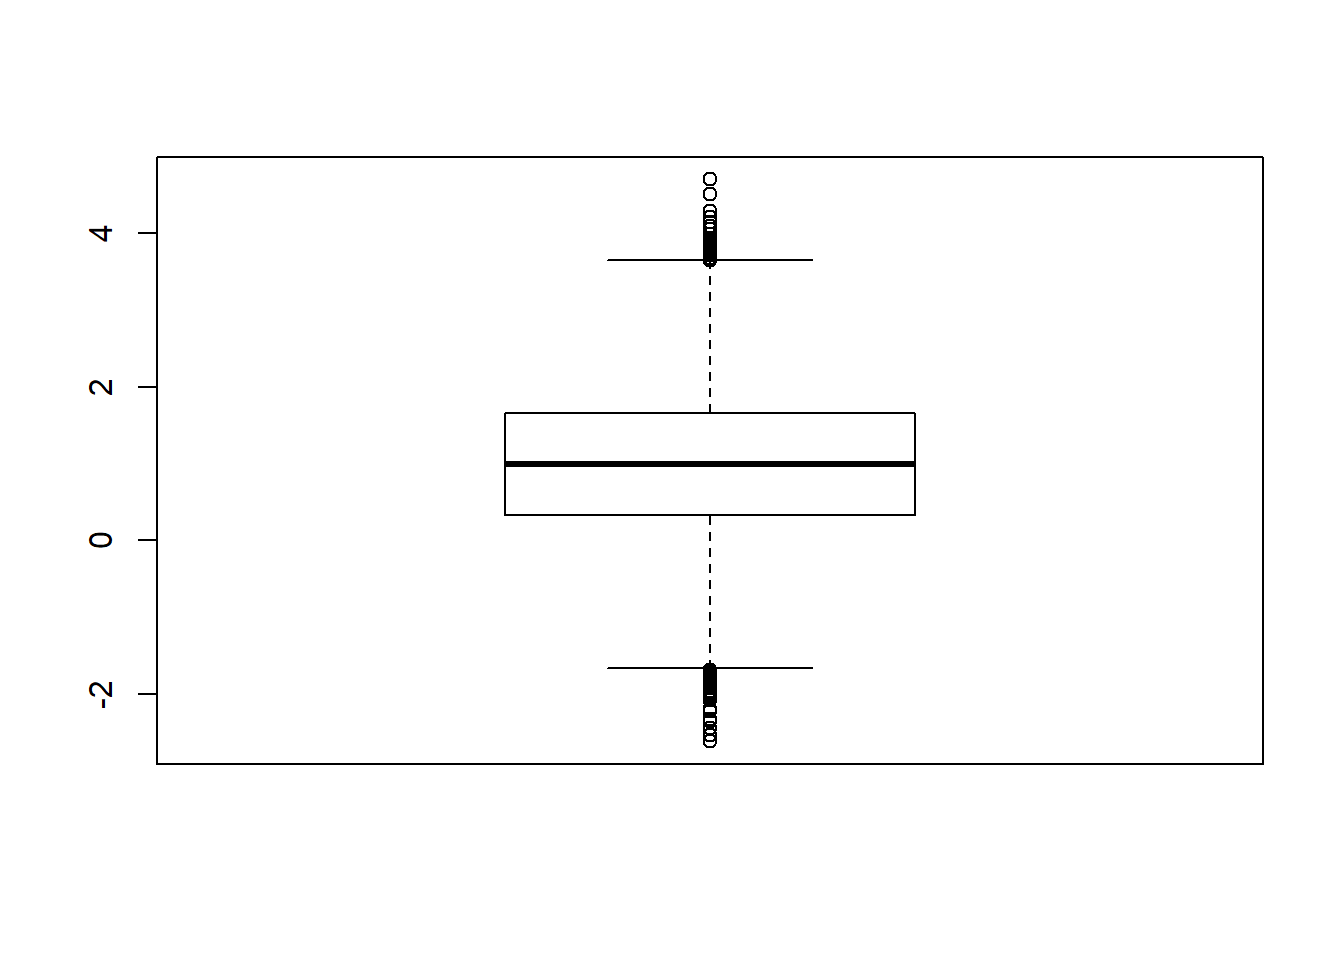
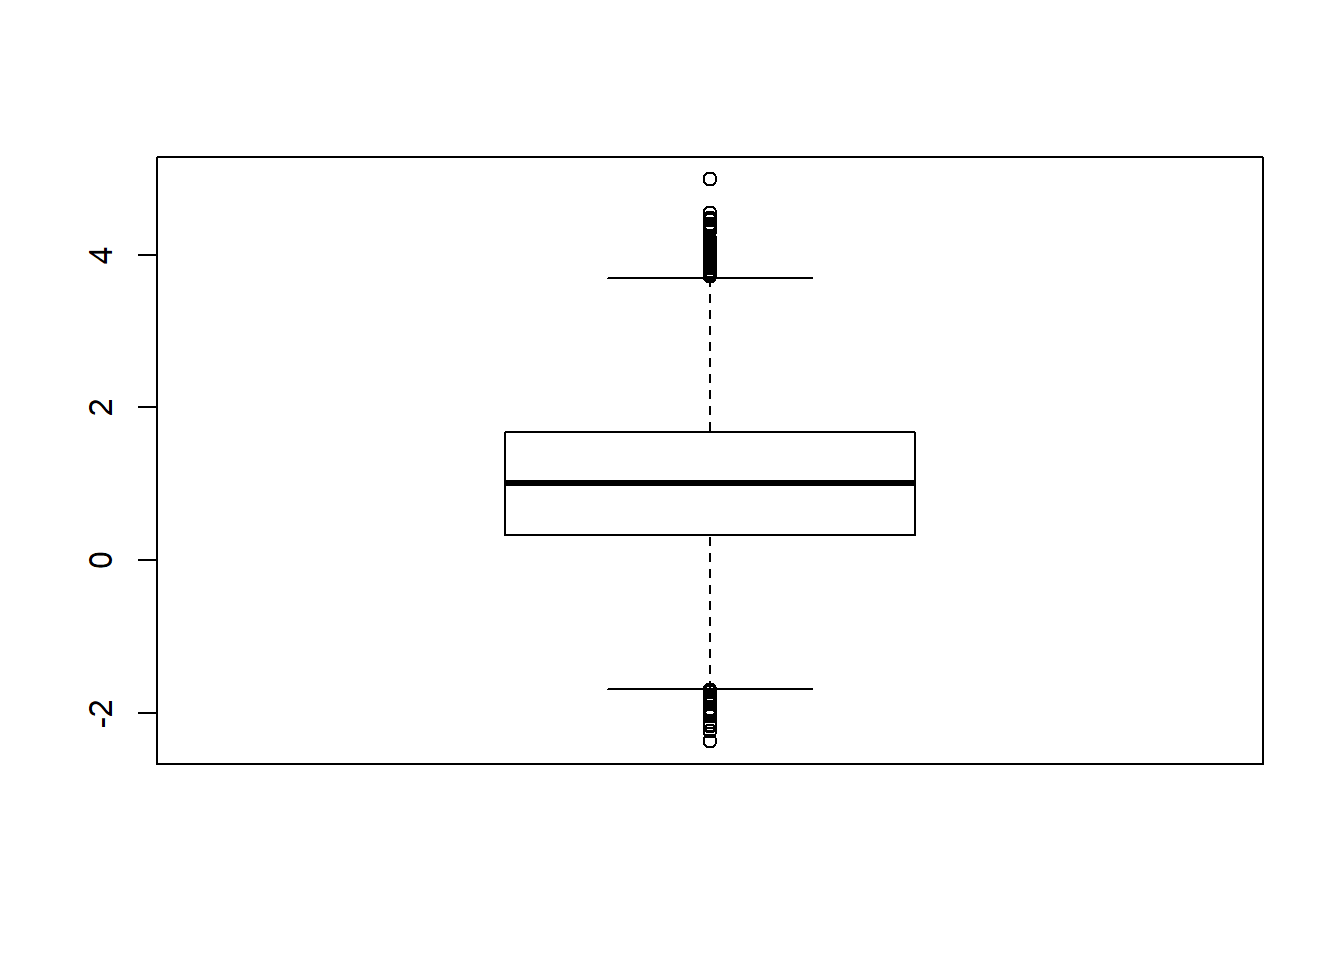
vsdv

diff --git a/content/post/2019-05-10-comando-basicos-r.html b/content/post/2019-05-10-comando-basicos-r.html
@@ -27,7 +27,7 @@ image:
 </ul></li>
 <li><a href="#tudo-no-r-e-objeto">Tudo no R é objeto</a><ul>
 <li><a href="#armazenando-dados-em-objetos">Armazenando dados em objetos</a></li>
-<li><a href="#concatenando-diversos-valores-e-armazenando-os-a-um-objeto">Concatenando diversos valores e armazenando-os a um objeto</a></li>
+<li><a href="#concatenando-diversos-valores-e-armazenando-os-em-um-objeto">Concatenando diversos valores e armazenando-os em um objeto</a></li>
 <li><a href="#extraindo-um-ou-mais-valores-de-um-objeto-a-partir-da-indexacao">Extraindo um ou mais valores de um objeto a partir da indexação</a></li>
 <li><a href="#principais-tipos-de-objetos">PRINCIPAIS <strong>TIPOS</strong> DE OBJETOS</a><ul>
 <li><a href="#funcoes">funções</a></li>
@@ -244,7 +244,7 @@ Auckland, ajudaram Ross Ihaka a desenvolver a versão para Macintosh.</p>
 ## cite it when using it for data analysis. See also
 ## &#39;citation(&quot;pkgname&quot;)&#39; for citing R packages.</code></pre>
 <pre class="r"><code>Sys.time()                  # obtém data e hora exata do sistema</code></pre>
-<pre><code>## [1] &quot;2019-05-16 12:05:01 -03&quot;</code></pre>
+<pre><code>## [1] &quot;2019-05-16 12:16:46 -03&quot;</code></pre>
 </div>
 <div id="operadores-simples-e-funcoes-matematicas" class="section level2">
 <h2>Operadores simples e funções matemáticas</h2>
@@ -380,8 +380,8 @@ y</code></pre>
 z</code></pre>
 <pre><code>## [1] 11 12 13 14 15</code></pre>
 </div>
-<div id="concatenando-diversos-valores-e-armazenando-os-a-um-objeto" class="section level2">
-<h2>Concatenando diversos valores e armazenando-os a um objeto</h2>
+<div id="concatenando-diversos-valores-e-armazenando-os-em-um-objeto" class="section level2">
+<h2>Concatenando diversos valores e armazenando-os em um objeto</h2>
 <pre class="r"><code>w &lt;- c(4,5,6,7,8)
 w</code></pre>
 <pre><code>## [1] 4 5 6 7 8</code></pre>
@@ -595,7 +595,7 @@ x &lt;- 1
 if(x == 1) {
   Sys.time()
 }</code></pre>
-<pre><code>## [1] &quot;2019-05-16 12:05:03 -03&quot;</code></pre>
+<pre><code>## [1] &quot;2019-05-16 12:16:47 -03&quot;</code></pre>
 <pre class="r"><code>if(x &lt; 0) {
   sinal &lt;- &quot;negativo&quot;
 } else if(x == 0) {
@@ -626,46 +626,49 @@ soma</code></pre>
 <div id="gerando-numeros-aleatorios-e-amostragem" class="section level1">
 <h1>Gerando números aleatórios e amostragem</h1>
 <pre class="r"><code>runif(100)        # Gera números aleatórios entre 0 e 1 com distribuição uniforme</code></pre>
-<pre><code>##   [1] 0.74868471 0.65302577 0.59695364 0.55191148 0.32367409 0.50151795
-##   [7] 0.73200879 0.32027399 0.74268824 0.22065408 0.94536031 0.35376165
-##  [13] 0.92954102 0.33572480 0.80530736 0.41712829 0.68905828 0.70772629
-##  [19] 0.27111391 0.10935925 0.90254411 0.68728077 0.37850139 0.61874865
-##  [25] 0.10500243 0.75810282 0.67866942 0.13475690 0.10595073 0.80810289
-##  [31] 0.93698392 0.97372232 0.62906478 0.62958915 0.31291607 0.72384826
-##  [37] 0.94849183 0.44476111 0.24896516 0.13864263 0.68392851 0.11074143
-##  [43] 0.83151530 0.97213242 0.25686078 0.59969925 0.71328982 0.38620925
-##  [49] 0.75160951 0.48872754 0.28012227 0.55768422 0.98274667 0.63228730
-##  [55] 0.71839802 0.90468774 0.56187824 0.22425593 0.08417468 0.88762021
-##  [61] 0.71924922 0.05556459 0.39070650 0.14712495 0.57410049 0.45704987
-##  [67] 0.10567661 0.44479792 0.97438534 0.63878716 0.47128369 0.75063800
-##  [73] 0.23242981 0.04554077 0.48599683 0.07947313 0.41405370 0.65925056
-##  [79] 0.83474741 0.86518329 0.96686736 0.59652100 0.81870572 0.36835734
-##  [85] 0.39691555 0.94663948 0.24698887 0.07792741 0.64322108 0.30372731
-##  [91] 0.64177957 0.55584117 0.31437438 0.09927427 0.78746569 0.66986416
-##  [97] 0.32156624 0.38379057 0.60148639 0.72402225</code></pre>
+<pre><code>##   [1] 0.209823232 0.913387632 0.838047920 0.267173367 0.926002862
+##   [6] 0.758717400 0.355714137 0.751435379 0.684433778 0.674740590
+##  [11] 0.447883053 0.806096646 0.335682978 0.111756914 0.260077349
+##  [16] 0.111357337 0.756841775 0.098608841 0.576660814 0.745511504
+##  [21] 0.213155692 0.425513220 0.749937291 0.707199972 0.530089243
+##  [26] 0.920608765 0.337578741 0.609083272 0.872845898 0.594186513
+##  [31] 0.842322083 0.522020489 0.766283021 0.170482108 0.839184343
+##  [36] 0.730849650 0.361356130 0.534933510 0.404799563 0.276897814
+##  [41] 0.176707928 0.161623048 0.490243529 0.488923044 0.810751066
+##  [46] 0.516043932 0.023963869 0.569580538 0.722792594 0.593552517
+##  [51] 0.601458229 0.940643530 0.115236259 0.913203222 0.508126465
+##  [56] 0.083131516 0.027733498 0.264641497 0.635617052 0.139792720
+##  [61] 0.160472095 0.787657109 0.341455592 0.129159517 0.851357839
+##  [66] 0.243687946 0.936642307 0.555485670 0.605445859 0.294704556
+##  [71] 0.791647125 0.848581375 0.392131438 0.428807313 0.191142373
+##  [76] 0.174952548 0.292697912 0.381933304 0.999066731 0.173849567
+##  [81] 0.299229844 0.398011421 0.774288802 0.805797381 0.955701694
+##  [86] 0.761608816 0.670610740 0.897576554 0.428256088 0.699441539
+##  [91] 0.579149852 0.946879330 0.583640296 0.671613622 0.831750749
+##  [96] 0.858104990 0.141632364 0.073893559 0.741623607 0.007145412</code></pre>
 <pre class="r"><code>rnorm(100)        # Gera números aleatórios com distribuição normal</code></pre>
-<pre><code>##   [1]  0.431780006  0.551085206  1.018301452 -0.574007364 -0.454427141
-##   [6] -0.005939572  1.725295736  0.656484200 -0.117976666  0.749237744
-##  [11]  0.848984682 -1.203014499  1.939838703 -0.717859808  0.158722889
-##  [16]  0.814551785  0.281165896 -1.438669475 -0.798366331 -0.602131220
-##  [21]  0.458247909  0.379899883  0.596349359 -0.434007042 -0.066142898
-##  [26] -0.552351753 -1.454676105 -0.060509268 -0.535588303  0.269917268
-##  [31] -1.374923291 -0.149262517 -0.636440901 -0.152797825  0.699620539
-##  [36] -1.193991366  0.134376641 -0.433574769  0.087213664 -0.588150113
-##  [41] -0.524037840  0.513239710  2.477652029 -0.394012891 -0.843399586
-##  [46] -0.600943333 -1.306353116  0.747255150  1.136412689  0.649126434
-##  [51]  0.081331098 -0.113042455  1.083298802 -0.623290019  0.771415156
-##  [56] -0.475418404  0.126608504 -2.094576179 -2.054114998  1.339317108
-##  [61]  0.771909817  0.587450000  2.114556506  1.332068760 -0.162421013
-##  [66] -0.071938850 -0.310777538  0.664508468  0.568069227  0.404157788
-##  [71] -1.421518540  0.002099416  1.365489933  0.908208795 -0.804269497
-##  [76]  0.787693234 -0.949336859 -0.914661942 -0.317537566  1.818867602
-##  [81] -1.176210724  1.284287023  0.325723182  1.534362965 -0.621786396
-##  [86] -1.427521611 -0.272563680 -0.176397294  0.038684393 -2.172352371
-##  [91]  0.128287127 -1.529630299 -0.709852335 -0.014338814 -0.588561083
-##  [96] -0.542564377  0.191409736 -0.969097636  0.317898411 -0.078986738</code></pre>
+<pre><code>##   [1]  1.06941494 -0.55678195  0.25721500  0.98922603 -0.92693407
+##   [6] -0.62521428  0.51621351 -1.15662400  1.11919899  0.52688525
+##  [11] -0.01812531 -1.08329228  1.28399161  0.44516166  0.50083969
+##  [16]  1.88129302  0.19413067  0.23130509  1.49150270  0.56195104
+##  [21]  1.54736187 -0.84521082  0.37661862 -0.60102477  0.15008819
+##  [26]  0.34539146  0.76002199 -0.72465033 -0.81959902  1.14564925
+##  [31]  2.71636709  0.79109217  0.82965471 -0.83554443  0.89425456
+##  [36] -1.00096430  0.19409365 -0.27159839 -0.99209372 -0.36884745
+##  [41]  0.20979445  0.51436916 -1.08021287 -2.45608110 -0.24930993
+##  [46]  1.99689322 -1.74640658 -0.29337200 -1.37744058 -0.34763206
+##  [51] -0.05139444 -2.38754198 -0.72914318 -0.92691291  0.26878059
+##  [56] -1.85123591 -0.67625801 -0.12265246 -0.18063299 -0.32677264
+##  [61]  0.96479910 -0.13450648  0.49490865 -0.75991649 -0.14847515
+##  [66] -1.26479570 -1.56020871 -0.50460464 -0.77340199 -1.22971998
+##  [71]  0.63255255 -0.43522424 -0.28071631 -0.71160275  1.94533126
+##  [76] -0.38333751 -0.79251665  0.22631456  0.15927974 -0.63381740
+##  [81]  1.07279624 -0.94949519 -0.57140632 -0.46478990  0.18148580
+##  [86]  0.23467059 -0.45163280 -1.09887259  1.48264330  1.44627077
+##  [91]  0.73975923 -0.37925296 -0.68176818 -0.08736646 -1.50639672
+##  [96] -2.21781260  0.48880970 -0.58630769  0.94578746 -0.88557402</code></pre>
 <pre class="r"><code>sample(1:100, 4)  # Amostragem</code></pre>
-<pre><code>## [1] 24  6 96 81</code></pre>
+<pre><code>## [1] 46 40 87 30</code></pre>
 <div id="histograma" class="section level2">
 <h2>Histograma</h2>
 <pre class="r"><code>x &lt;- rnorm(n=10000, mean=1, sd=1)
